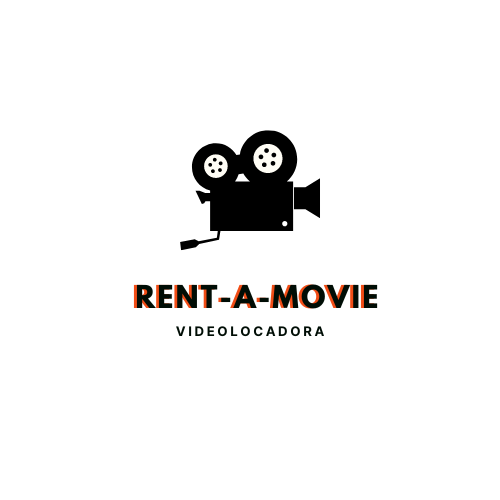
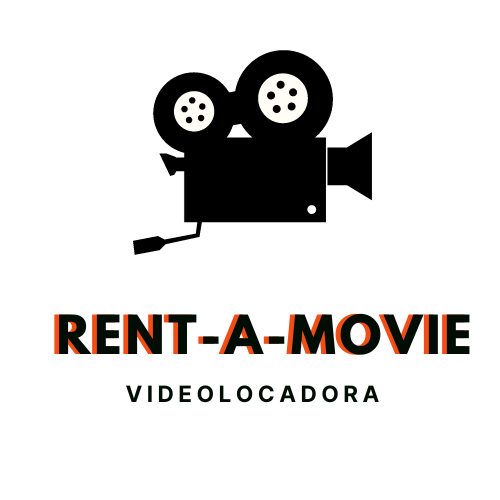
update className&css

Changed region(s): [[0.24, 0.09, 0.75, 0.51], [0.09, 0.57, 0.96, 0.72], [0.24, 0.75, 0.78, 0.81]]

diff --git a/web/src/services/postClass/index.tsx b/web/src/services/postClass/index.tsx
@@ -3,10 +3,14 @@ import api from "../api";
 export default function postClass(className: any, classValue: any, returnDate: any): Promise<any> {
 
     return new Promise((resolve) => {
-        return new Promise((resolve, reject) => {
-            api.post("/api/classe", { name: className, classValue: classValue, returnDate: returnDate }).then((res: any) => {
-                resolve(res.data)
+        api.post("/api/classe",
+            { name: className, classValue: Number(classValue), returnDate: Number(returnDate) },
+            {
+                headers: {
+                    'Content-Type': 'application/json',
+                }
+            }).then((res: any) => {
+                resolve(res.data + " " + className)
             });
-        })
     })
 }

diff --git a/web/src/screens/ClassRegister/index.tsx b/web/src/screens/ClassRegister/index.tsx
@@ -18,12 +18,16 @@ export default function ClassRegister() {
             updateClass(name, value, returnDate, classProps.id).then((data) => {
                 alert(data + " Atualizado com sucesso!");
                 navigate('/filmes');
+            }).catch((error) => {
+                alert(error);
             })
             :
             postClass(name, value, returnDate).then((data) => {
                 alert(data + " Cadastrado com sucesso!");
                 navigate('/filmes');
-            })
+            }).catch((error) => {
+                alert(error);
+            });
     }
 
     function handleNameInputChange(event: any) {

diff --git a/web/src/components/menuBar/index.tsx b/web/src/components/menuBar/index.tsx
@@ -7,7 +7,7 @@ import logo from '../../assets/rentamovie-darkmode.png';
 import { Navigate, useNavigate } from "react-router-dom";
 import { Link } from 'react-router-dom';
 
-export function TopBar() {
+export function MenuBar() {
 
     const navigate = useNavigate();
     const [menuOpen, setMenuOpen] = React.useState(false);
@@ -20,7 +20,7 @@ export function TopBar() {
         <>
             <div className="App-header">
                 <Link to="/">
-                    <img src={logo} className="App-logo" alt="logo" />
+                    <img src={logo} className="App-logo" alt="logo"/>
                 </Link>
             </div>
 

diff --git a/web/src/routes/index.tsx b/web/src/routes/index.tsx
@@ -13,7 +13,7 @@ import {
 } from "react-router-dom";
 
 // componentes
-import { TopBar } from '../components/sidebar';
+import { MenuBar } from '../components/menuBar';
 
 // Páginas
 import { Home } from '../screens/Home';
@@ -51,7 +51,7 @@ export function StackRoutes() {
   return (
     <>
       <div className="App">
-        <TopBar />
+        <MenuBar />
 
         <div className="App-pages">
           <Routes>

diff --git a/web/src/App.css b/web/src/App.css
@@ -9,6 +9,16 @@
   color: white;
 }
 
+.App-logo {
+  height: 160px;
+  pointer-events: none;
+}
+
+.App-building {
+  height: 400px;
+  pointer-events: none;
+}
+
 .App-header {
   background-color: #282c34;
   padding: 20px;
@@ -87,11 +97,6 @@
   padding: 10px;
   cursor: pointer;
   z-index: 1;
-}
-
-.App-logo {
-  height: 40vmin;
-  pointer-events: none;
 }
 
 .App-link {

diff --git a/web/src/screens/Home/index.tsx b/web/src/screens/Home/index.tsx
@@ -9,7 +9,7 @@ export function Home() {
     return (
         <div className="App">
             <body className="App-content">
-                <img src={logo} className="App-logo" alt="logo" />
+                <img src={logo} className="App-building" alt="logo" />
             </body>
         </div>
     );
